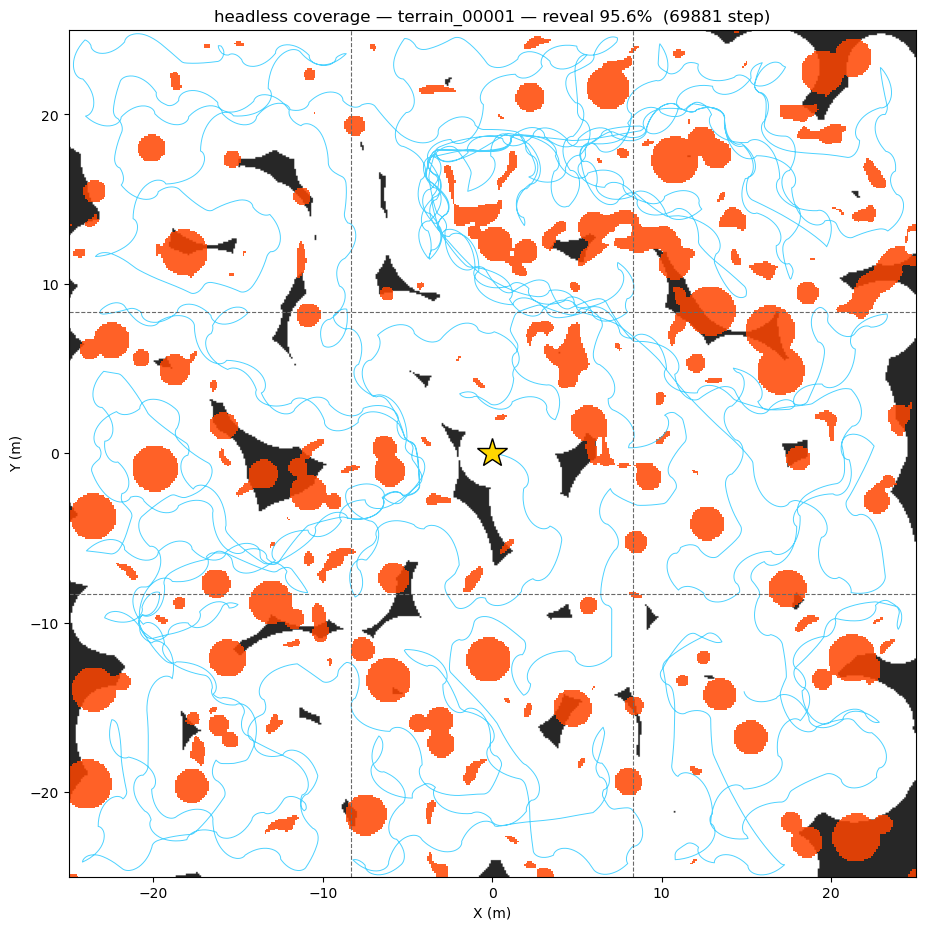
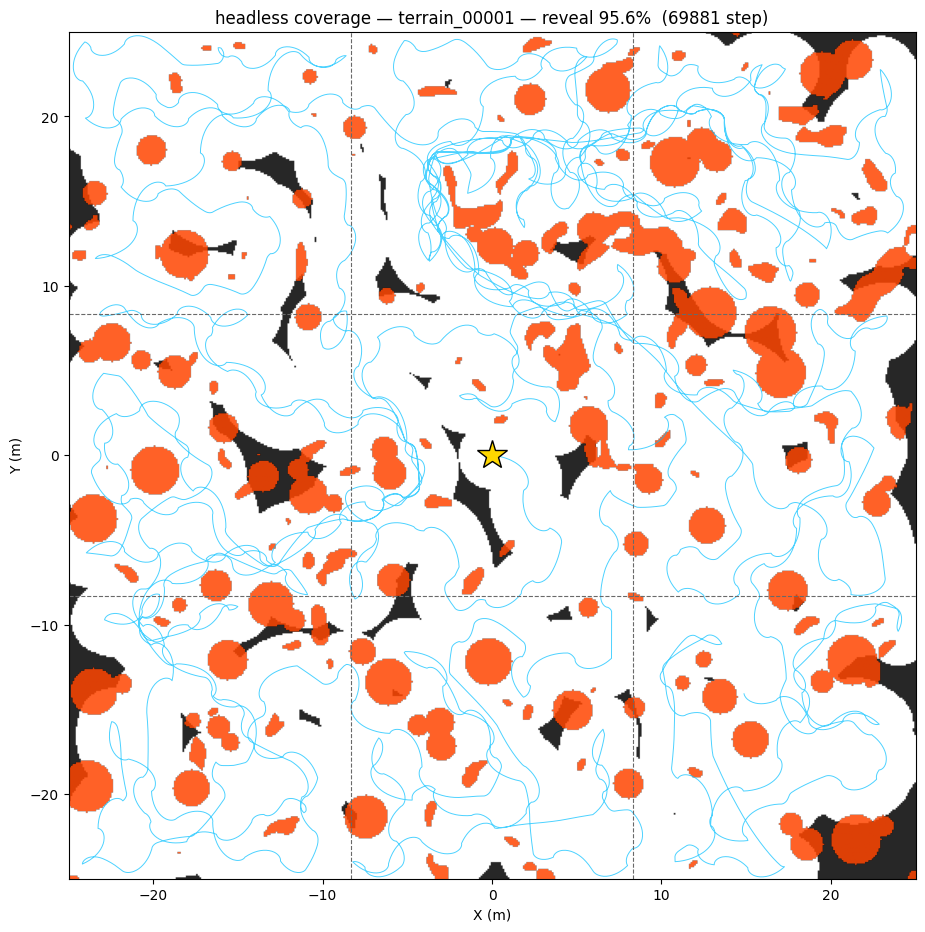
fix(isaac_drive): sim_coverage_headless 하드코딩 경로 자동 도출
WS 가 /home/rokey/... 로 하드코딩돼 타 머신에서 terrain 로드 실패.
스크립트 위치 기준 a2_isaac 루트 도출로 수정. 검증 결과 PNG 갱신.

diff --git a/isaac_drive/scripts/sim_coverage_headless.py b/isaac_drive/scripts/sim_coverage_headless.py
@@ -25,7 +25,8 @@ from isaac_drive.navigation.coverage_planner import SectorPlanner
 from isaac_drive.navigation.navigator import Navigator
 from isaac_drive.navigation.mission_fsm import Mission
 
-WS = "/home/rokey/dev_ws/rover_ws/src/a2_isaac"
+# a2_isaac 워크스페이스 루트 = scripts/../.. (스크립트 위치 기준 자동 도출).
+WS = os.path.dirname(os.path.dirname(HERE))
 TERRAIN_DIR = f"{WS}/isaac_sim/assets/generated_terrains/terrain_00001"
 
 ROBOT_RADIUS  = 0.7